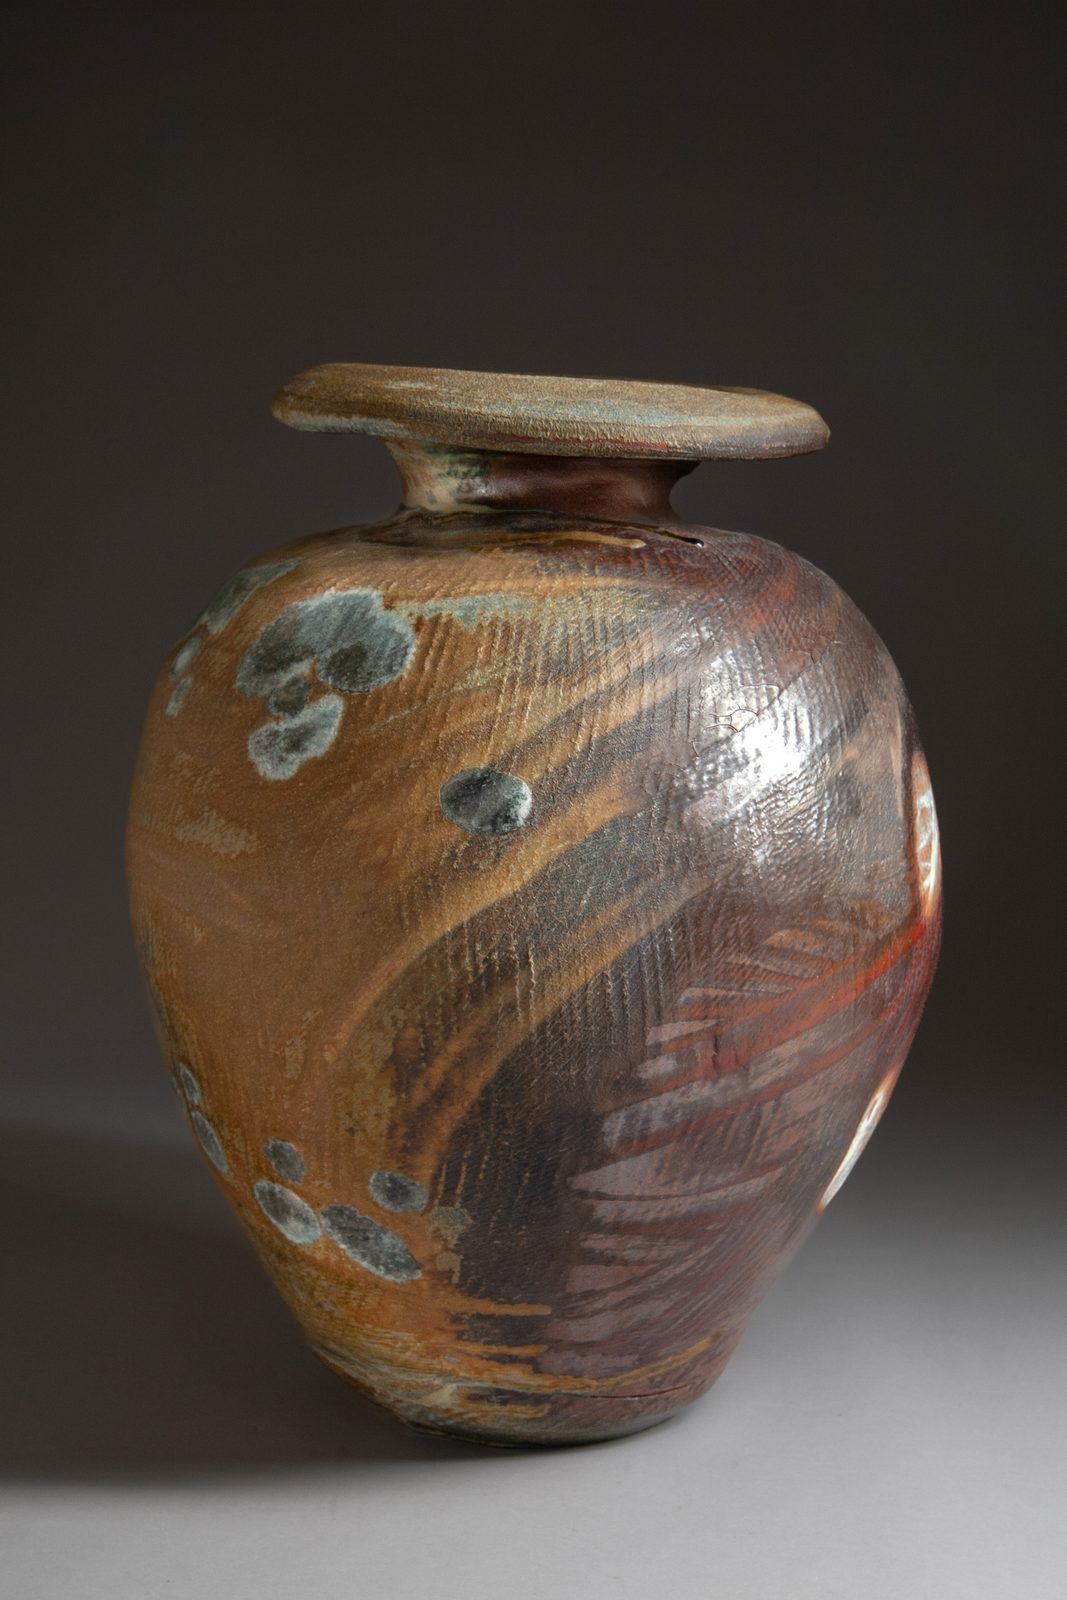
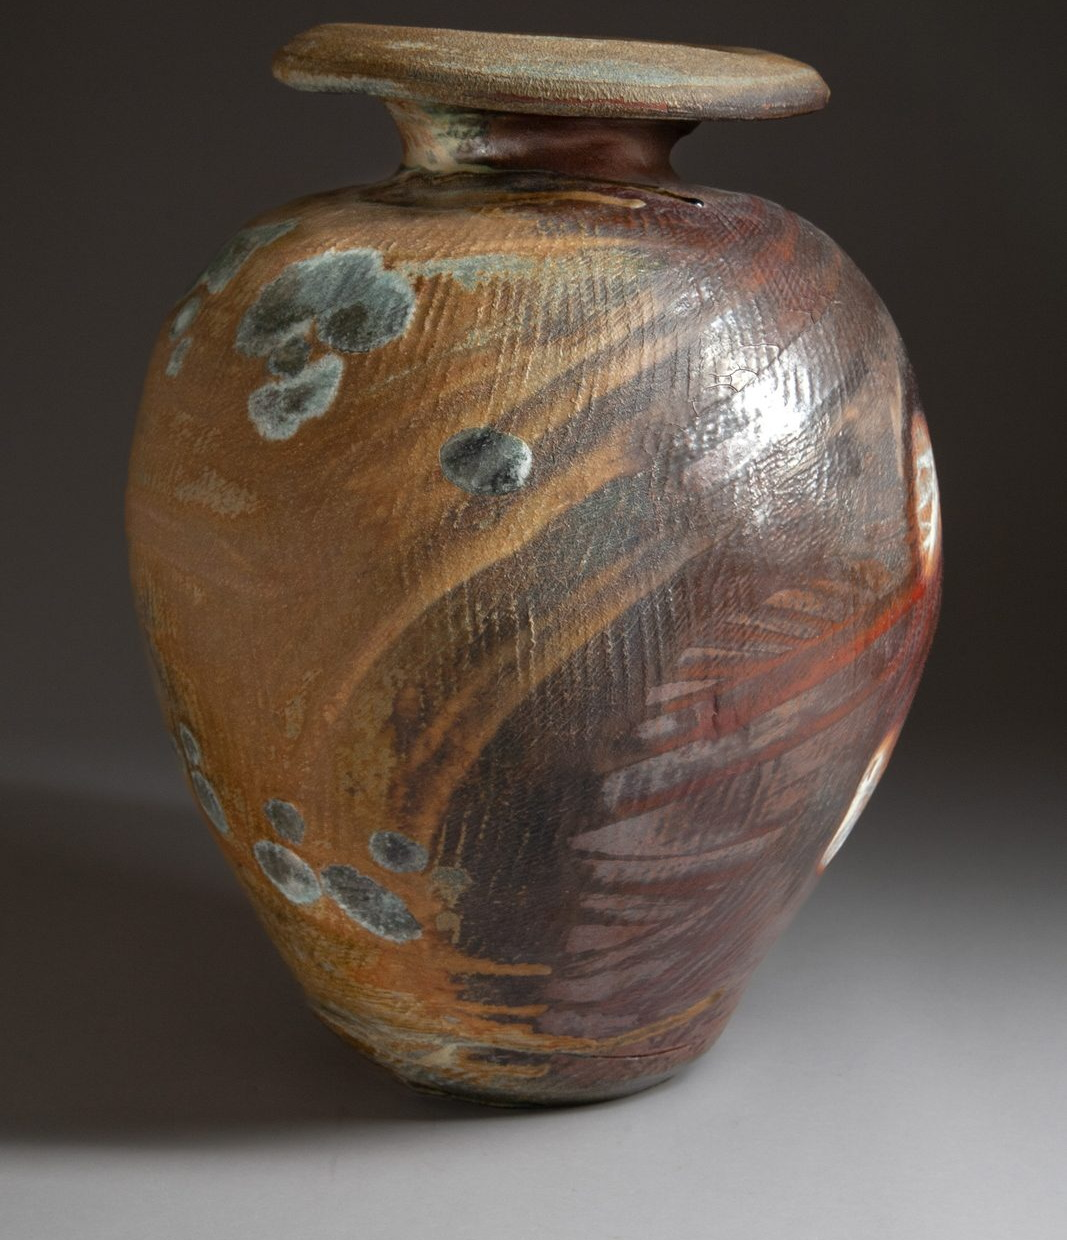
updates 8/26

diff --git a/artist.html b/artist.html
@@ -68,7 +68,7 @@
 
     <section class="artist-hero">
       <img class="artist-hero__img" src="assets/images/site/tupa-portrait.jpg" alt="Father Jerome Tupa seated in his studio, surrounded by his bold, colorful canvases" fetchpriority="high" width="933" height="1400" data-parallax-bg="36">
-      <div class="artist-hero__band band--red">
+      <div class="artist-hero__band">
         <div class="container">
           <p class="eyebrow">The Artist</p>
           <h1 class="display display-xl">Father Jerome&nbsp;Tupa</h1>
@@ -76,7 +76,7 @@
       </div>
     </section>
 
-    <section class="section on-dark">
+    <section class="section on-dark artist-bio">
       <div class="container bio">
         <div class="bio__col bio__col--first">
           <p class="reveal">A native of North Dakota and Benedictine monk of Saint John's Abbey in Collegeville, Minnesota, Father Jerome Tupa has spent more than fifty years painting the world's sacred landscapes — producing some of the most vibrant oil paintings in contemporary religious art. His interest in art began at the University of North Dakota under professor Luella Raab Mundel; his doctoral studies in French literature at the Sorbonne deepened the vocation, and painting became inseparable from his scholarship. His first show was at the Librairie St.&nbsp;Séverin in Paris — a modest debut that opened a fifty-year career of increasingly ambitious work. While directing the French Studies program in Aix-en-Provence, he ran mornings below Mont Sainte-Victoire, Cézanne's mountain.</p>
@@ -159,7 +159,7 @@
     <div class="container site-footer__sponsors">
       <a href="support.html"><img src="assets/images/logos/fidelis.png" alt="Fidelis Capital" width="1280" height="373"></a>
       <a href="support.html"><img src="assets/images/logos/abbey.webp" alt="Saint John's Abbey" width="242" height="127"></a>
-      <a href="support.html"><img src="assets/images/logos/bible.jpg" alt="The Saint John's Bible" width="480" height="586"></a>
+      <a href="support.html"><img src="assets/images/logos/bible.png" alt="The Saint John's Bible" width="480" height="586"></a>
     </div>
     <div class="marquee" aria-hidden="true">
       <div class="marquee__track">

diff --git a/css/pages/artist.css b/css/pages/artist.css
@@ -34,12 +34,14 @@
 .artist-hero__band {
   position: relative;
   width: 100%;
-  background: var(--band-red);
+  /* Solid red — translucent band made type unreadable over the studio photo */
+  background: var(--tupa-red);
   padding: clamp(1.5rem, 3.5vw, 3rem) var(--gutter);
   z-index: 1;
 }
 
 /* Biography — editorial two-column with display drop cap */
+.artist-bio { overflow: clip; }
 .bio {
   display: grid;
   gap: 3rem;
@@ -56,34 +58,46 @@
   padding: 0.08em 0.12em 0 0;
   color: var(--tupa-red);
 }
-/* Photo collage below the bio text — stacked pair left, tall portrait right */
+/* Photo collage below the bio text — stacked pair left, tall portrait right.
+   Keep the whole collage inside the black section (no spill onto the cream panel). */
 .bio-gallery {
   display: grid;
   gap: clamp(1rem, 2.2vw, 1.75rem);
   margin-top: clamp(2.5rem, 5vw, 4.5rem);
+  overflow: clip;
 }
 @media (min-width: 48em) {
-  .bio-gallery { grid-template-columns: 1fr 1.05fr; }
+  .bio-gallery { grid-template-columns: 1fr 1.05fr; align-items: stretch; }
 }
 .bio-gallery__left {
   display: grid;
   gap: clamp(1rem, 2.2vw, 1.75rem);
+  align-content: start;
 }
-.bio-gallery img {
+/* Left images keep their natural aspect — no forced cover crop */
+.bio-gallery__left img {
   width: 100%;
-  height: 100%;
-  object-fit: cover;
+  height: auto;
   display: block;
 }
-/* The tall portrait fills whatever height the left stack produces */
-.bio-gallery__tall { position: relative; min-height: 24rem; }
+/* Tall portrait matches the left stack height and stays clipped inside the cell */
+.bio-gallery__tall {
+  position: relative;
+  overflow: hidden;
+  min-height: 20rem;
+  background: var(--ink);
+}
 .bio-gallery__tall img {
   position: absolute;
   inset: 0;
+  width: 100%;
+  height: 100%;
+  object-fit: cover;
+  object-position: center 18%;
+  display: block;
 }
 @media (max-width: 47.9375em) {
-  .bio-gallery__tall img { position: static; }
-  .bio-gallery__tall { min-height: 0; }
+  .bio-gallery__tall { min-height: 0; aspect-ratio: 3 / 4; }
 }
 
 /* Facts panel — white card on the cream band below the black bio (mockup) */

diff --git a/support.html b/support.html
@@ -92,7 +92,7 @@
           <div class="sponsor-row sponsor-row--wall" data-stagger="0.08">
             <a class="reveal" href="https://www.fideliscapital.com" target="_blank" rel="noopener"><img src="assets/images/logos/fidelis.png" alt="Fidelis Capital" width="1280" height="373"></a>
             <a class="reveal" href="https://saintjohnsabbey.org" target="_blank" rel="noopener"><img src="assets/images/logos/abbey.webp" alt="Saint John's Abbey" width="242" height="127"></a>
-            <a class="reveal" href="https://saintjohnsbible.org" target="_blank" rel="noopener"><img src="assets/images/logos/bible.jpg" alt="The Saint John's Bible" width="480" height="586"></a>
+            <a class="reveal" href="https://saintjohnsbible.org" target="_blank" rel="noopener"><img src="assets/images/logos/bible.png" alt="The Saint John's Bible" width="480" height="586"></a>
           </div>
           <p class="reveal" style="margin-top: 3rem; text-align: center">
             <a class="btn btn--red" href="mailto:John@JohnPellegrene.com?subject=Sponsorship%20—%20An%20Evening%20of%20Fine%20Art%20%26%20Philanthropy">Become a sponsor</a>
@@ -122,7 +122,7 @@
     <div class="container site-footer__sponsors">
       <a href="support.html"><img src="assets/images/logos/fidelis.png" alt="Fidelis Capital" width="1280" height="373"></a>
       <a href="support.html"><img src="assets/images/logos/abbey.webp" alt="Saint John's Abbey" width="242" height="127"></a>
-      <a href="support.html"><img src="assets/images/logos/bible.jpg" alt="The Saint John's Bible" width="480" height="586"></a>
+      <a href="support.html"><img src="assets/images/logos/bible.png" alt="The Saint John's Bible" width="480" height="586"></a>
     </div>
     <div class="marquee" aria-hidden="true">
       <div class="marquee__track">

diff --git a/index.html b/index.html
@@ -252,11 +252,16 @@
         <div class="sponsor-row reveal" data-stagger="0.08">
           <a href="support.html"><img src="assets/images/logos/fidelis.png" alt="Fidelis Capital" width="1280" height="373"></a>
           <a href="support.html"><img src="assets/images/logos/abbey.webp" alt="Saint John's Abbey" width="242" height="127"></a>
-          <a href="support.html"><img src="assets/images/logos/bible.jpg" alt="The Saint John's Bible" width="480" height="586"></a>
+          <a href="support.html"><img src="assets/images/logos/bible.png" alt="The Saint John's Bible" width="480" height="586"></a>
         </div>
         <p class="reveal" style="margin-top: 3rem"><a class="btn btn--ghost" href="support.html">About the cause</a></p>
       </div>
     </section>
+
+    <!-- Signature color pattern (Tina / Wayne brand direction) -->
+    <div class="color-pattern" aria-hidden="true">
+      <img src="assets/images/site/color-pattern.jpg" alt="" width="1508" height="175" loading="lazy">
+    </div>
 
   </main>
 
@@ -279,7 +284,7 @@
     <div class="container site-footer__sponsors">
       <a href="support.html"><img src="assets/images/logos/fidelis.png" alt="Fidelis Capital" width="1280" height="373"></a>
       <a href="support.html"><img src="assets/images/logos/abbey.webp" alt="Saint John's Abbey" width="242" height="127"></a>
-      <a href="support.html"><img src="assets/images/logos/bible.jpg" alt="The Saint John's Bible" width="480" height="586"></a>
+      <a href="support.html"><img src="assets/images/logos/bible.png" alt="The Saint John's Bible" width="480" height="586"></a>
     </div>
     <div class="marquee" aria-hidden="true">
       <div class="marquee__track">

diff --git a/event.html b/event.html
@@ -145,6 +145,11 @@
       </div>
     </section>
 
+    <!-- Signature color pattern (Tina / Wayne brand direction) -->
+    <div class="color-pattern" aria-hidden="true">
+      <img src="assets/images/site/color-pattern.jpg" alt="" width="1508" height="175" loading="lazy">
+    </div>
+
     <!-- Tickets — purchase URL TBD; click-through will replace this holding copy -->
     <section class="section tickets-section" id="tickets">
       <div class="container tickets-grid">
@@ -192,7 +197,7 @@
     <div class="container site-footer__sponsors">
       <a href="support.html"><img src="assets/images/logos/fidelis.png" alt="Fidelis Capital" width="1280" height="373"></a>
       <a href="support.html"><img src="assets/images/logos/abbey.webp" alt="Saint John's Abbey" width="242" height="127"></a>
-      <a href="support.html"><img src="assets/images/logos/bible.jpg" alt="The Saint John's Bible" width="480" height="586"></a>
+      <a href="support.html"><img src="assets/images/logos/bible.png" alt="The Saint John's Bible" width="480" height="586"></a>
     </div>
     <div class="marquee" aria-hidden="true">
       <div class="marquee__track">

diff --git a/auction.html b/auction.html
@@ -156,7 +156,7 @@
     <div class="container site-footer__sponsors">
       <a href="support.html"><img src="assets/images/logos/fidelis.png" alt="Fidelis Capital" width="1280" height="373"></a>
       <a href="support.html"><img src="assets/images/logos/abbey.webp" alt="Saint John's Abbey" width="242" height="127"></a>
-      <a href="support.html"><img src="assets/images/logos/bible.jpg" alt="The Saint John's Bible" width="480" height="586"></a>
+      <a href="support.html"><img src="assets/images/logos/bible.png" alt="The Saint John's Bible" width="480" height="586"></a>
     </div>
     <div class="marquee" aria-hidden="true">
       <div class="marquee__track">

diff --git a/bible.html b/bible.html
@@ -154,7 +154,7 @@
     <div class="container site-footer__sponsors">
       <a href="support.html"><img src="assets/images/logos/fidelis.png" alt="Fidelis Capital" width="1280" height="373"></a>
       <a href="support.html"><img src="assets/images/logos/abbey.webp" alt="Saint John's Abbey" width="242" height="127"></a>
-      <a href="support.html"><img src="assets/images/logos/bible.jpg" alt="The Saint John's Bible" width="480" height="586"></a>
+      <a href="support.html"><img src="assets/images/logos/bible.png" alt="The Saint John's Bible" width="480" height="586"></a>
     </div>
     <div class="marquee" aria-hidden="true">
       <div class="marquee__track">

diff --git a/collection.html b/collection.html
@@ -172,7 +172,7 @@
     <div class="container site-footer__sponsors">
       <a href="support.html"><img src="assets/images/logos/fidelis.png" alt="Fidelis Capital" width="1280" height="373"></a>
       <a href="support.html"><img src="assets/images/logos/abbey.webp" alt="Saint John's Abbey" width="242" height="127"></a>
-      <a href="support.html"><img src="assets/images/logos/bible.jpg" alt="The Saint John's Bible" width="480" height="586"></a>
+      <a href="support.html"><img src="assets/images/logos/bible.png" alt="The Saint John's Bible" width="480" height="586"></a>
     </div>
     <div class="marquee" aria-hidden="true">
       <div class="marquee__track">

diff --git a/lot.html b/lot.html
@@ -152,7 +152,7 @@
     <div class="container site-footer__sponsors">
       <a href="support.html"><img src="assets/images/logos/fidelis.png" alt="Fidelis Capital" width="1280" height="373"></a>
       <a href="support.html"><img src="assets/images/logos/abbey.webp" alt="Saint John's Abbey" width="242" height="127"></a>
-      <a href="support.html"><img src="assets/images/logos/bible.jpg" alt="The Saint John's Bible" width="480" height="586"></a>
+      <a href="support.html"><img src="assets/images/logos/bible.png" alt="The Saint John's Bible" width="480" height="586"></a>
     </div>
     <div class="marquee" aria-hidden="true">
       <div class="marquee__track">

diff --git a/css/components.css b/css/components.css
@@ -416,6 +416,20 @@ body.has-custom-cursor { cursor: none; }
   opacity: 0.85;
 }
 
+/* Tina's signature color pattern — full-bleed painting strip (splash + event) */
+.color-pattern {
+  line-height: 0;
+  overflow: hidden;
+  background: var(--ink);
+}
+.color-pattern img {
+  width: 100%;
+  height: clamp(4.5rem, 11vw, 8.5rem);
+  object-fit: cover;
+  object-position: center;
+  display: block;
+}
+
 /* -------------------------------------------------------- Scroll cue */
 
 .scroll-cue {

diff --git a/css/layout.css b/css/layout.css
@@ -209,10 +209,10 @@ body.menu-open { overflow: hidden; }
   opacity: 0.75;
   transition: filter 0.3s ease, opacity 0.3s ease;
 }
+/* Avoid a white box on hover for logos that are already transparent PNGs */
 .site-footer__sponsors a:hover img, .site-footer__sponsors a:focus-visible img {
-  filter: none;
+  filter: grayscale(1) invert(1) brightness(1.6);
   opacity: 1;
-  background: var(--gallery);
 }
 .site-footer__legal {
   display: flex;
